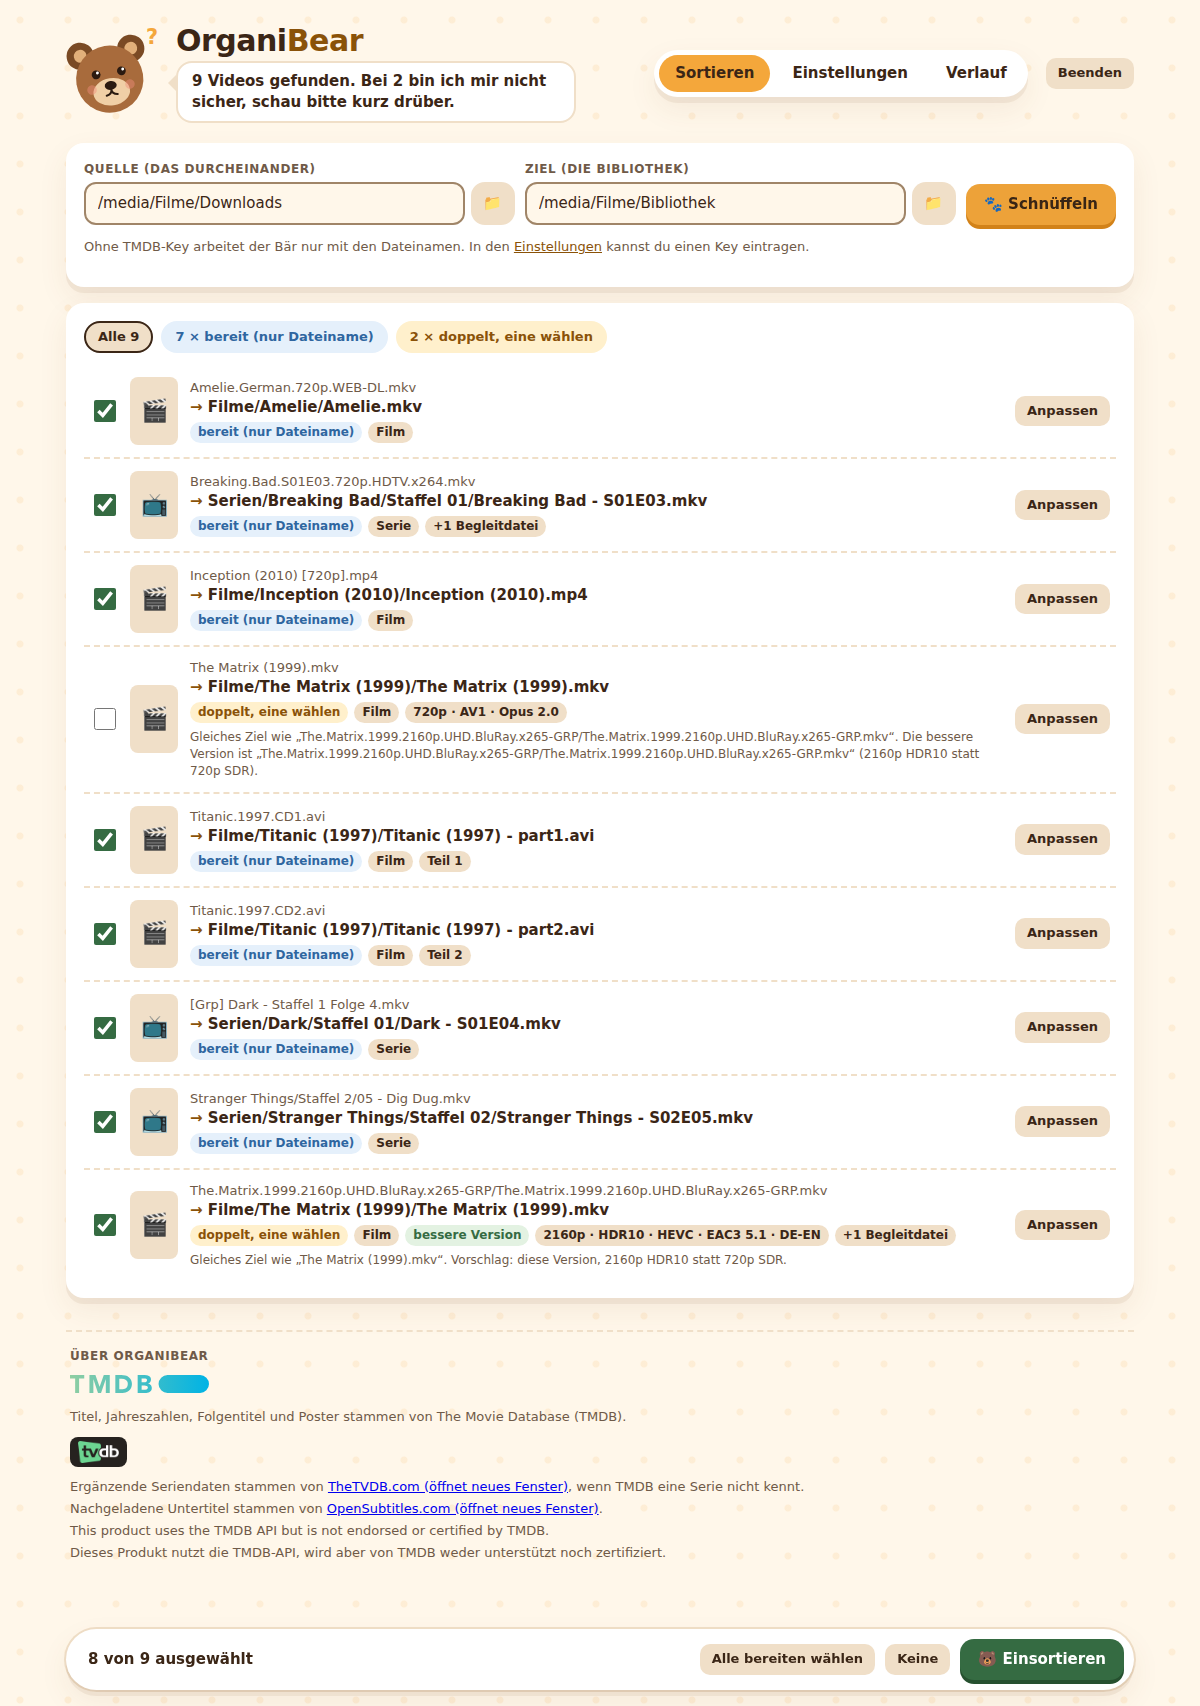
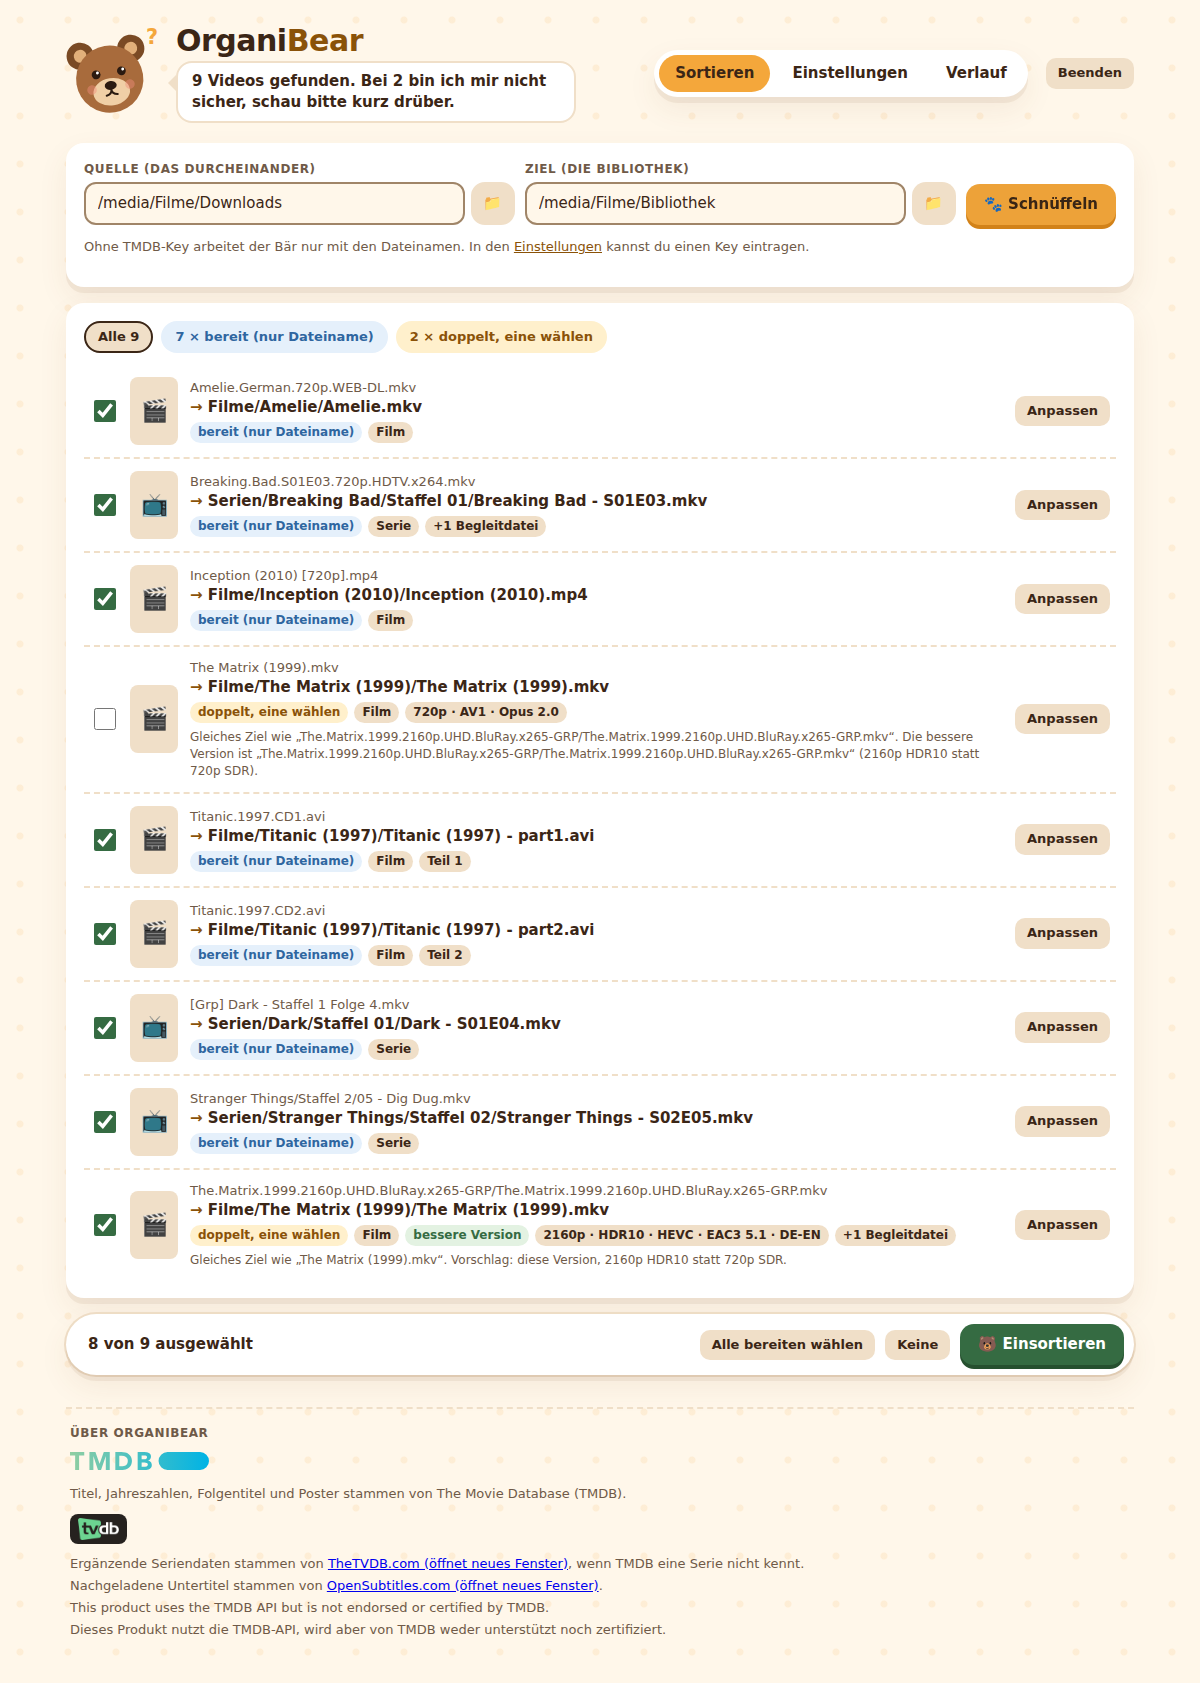
Auswahlleiste direkt unter der Liste statt unter dem Footer
Die Leiste klebt beim Scrollen weiter unten am Fenster (sticky statt
fixed), bleibt am Seitenende aber direkt unter der Liste stehen.

Claude-Session: https://claude.ai/code/session_01821xLD15Pix4i9MNryRkKJ

diff --git a/web/index.html b/web/index.html
@@ -56,7 +56,7 @@ body {
 }
 .sr-only { position: absolute; width: 1px; height: 1px; overflow: hidden; clip: rect(0 0 0 0); white-space: nowrap; }
 :focus-visible { outline: 3px solid var(--focus); outline-offset: 2px; }
-main { max-width: 1100px; margin: 0 auto; padding: 16px 16px 140px; }
+main { max-width: 1100px; margin: 0 auto; padding: 16px 16px 40px; }
 header { display: flex; align-items: center; gap: 18px; flex-wrap: wrap; margin: 8px 0 20px; }
 .brand { display: flex; align-items: center; gap: 14px; flex: 1; min-width: 260px; }
 .brand h1 { margin: 0 0 4px; font-size: 30px; letter-spacing: -.5px; line-height: 1.1; }
@@ -161,7 +161,7 @@ a.tag { text-decoration: underline; text-underline-offset: 2px; }
 .empty .big { font-size: 48px; }
 
 .bar {
-  position: fixed; left: 50%; bottom: 16px; transform: translateX(-50%); width: min(1068px, calc(100% - 32px));
+  position: sticky; bottom: 16px; z-index: 5; margin-top: 16px;
   background: var(--card); border-radius: 999px; box-shadow: var(--shadow), 0 0 0 2px var(--line);
   padding: 10px 10px 10px 22px; display: flex; gap: 10px; align-items: center; flex-wrap: wrap;
 }
@@ -300,6 +300,13 @@ dialog::backdrop { background: rgba(59, 38, 22, .45); }
       <h3 class="sr-only">Vorschau</h3>
       <div class="toolbar" id="summary" role="group" aria-label="Nach Status filtern"></div>
       <div id="items"></div>
+    </div>
+    <!-- Klebt beim Scrollen unten am Fenster und bleibt am Ende direkt unter der Liste stehen. -->
+    <div class="bar" id="bar" role="region" aria-label="Auswahl" hidden>
+      <span class="grow" id="selinfo" aria-live="polite"></span>
+      <button type="button" class="btn small" id="selready">Alle bereiten wählen</button>
+      <button type="button" class="btn small" id="selnone">Keine</button>
+      <button type="button" class="btn go" id="apply"><span aria-hidden="true">🐻 </span>Einsortieren</button>
     </div>
     <div class="card empty" id="empty">
       <div class="big" aria-hidden="true">🍯</div>
@@ -451,13 +458,6 @@ dialog::backdrop { background: rgba(59, 38, 22, .45); }
     <p>Dieses Produkt nutzt die TMDB-API, wird aber von TMDB weder unterstützt noch zertifiziert.</p>
   </footer>
 </main>
-
-<div class="bar" id="bar" role="region" aria-label="Auswahl" hidden>
-  <span class="grow" id="selinfo" aria-live="polite"></span>
-  <button type="button" class="btn small" id="selready">Alle bereiten wählen</button>
-  <button type="button" class="btn small" id="selnone">Keine</button>
-  <button type="button" class="btn go" id="apply"><span aria-hidden="true">🐻 </span>Einsortieren</button>
-</div>
 
 <dialog id="picker" aria-labelledby="pk-title" aria-describedby="pk-path">
   <div class="dlg-head">
